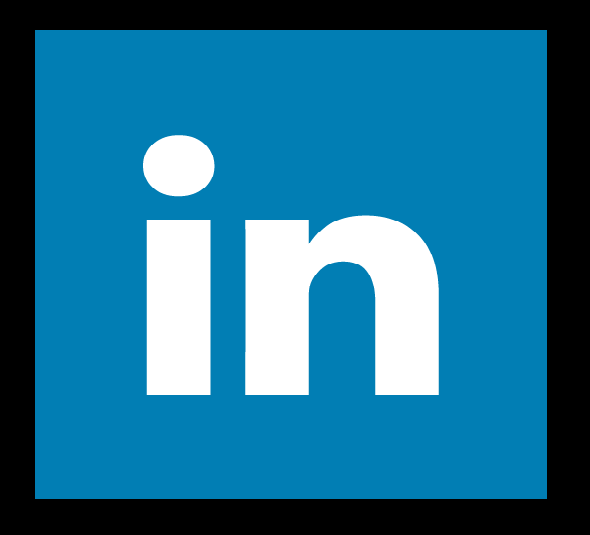
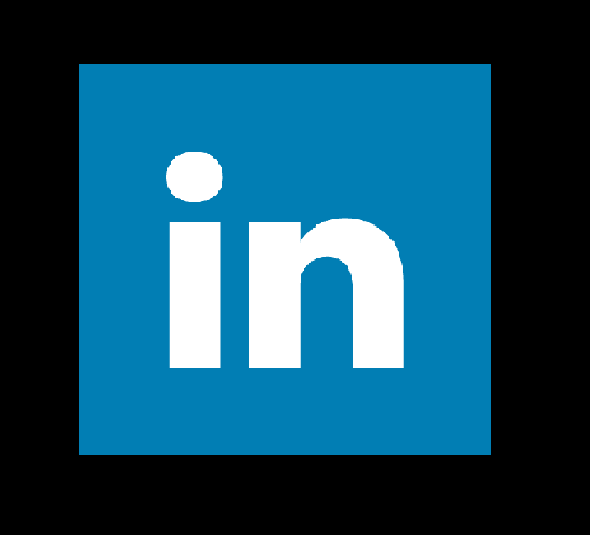
hi, I am Minh

diff --git a/README.md b/README.md
@@ -7,7 +7,7 @@
 [<img align="left" alt="twitter" width="36px" src="icons/twitter.png" />](https://twitter.com/vminhdev)
 [<img align="left" alt="discord" width="36px" src="icons/discord.png" />](https://discordapp.com/users/685055506884198400/)
 [<img align="left" alt="anilist" width="36px" src="icons/anilist.png" />](https://anilist.co/user/conal/)
-[<img align="left" alt="linkedin" width="36px" src="icons/in.png" />](https://www.linkedin.com/in/minhconaldds/)
+[<img align="left" alt="linkedin" width="36px" height="36px" src="icons/in.png" />](https://www.linkedin.com/in/minhconaldds/)
 <br /><br /><br />
 
 <!--
@@ -17,6 +17,5 @@ Here are some ideas to get you started:
 - 🌱 I’m currently learning ...
 - 👯 I’m looking to collaborate on ...
 - 🤔 I’m looking for help with ...
-- 📫 How to reach me: ...
 - ⚡ Fun fact: ...
 -->
